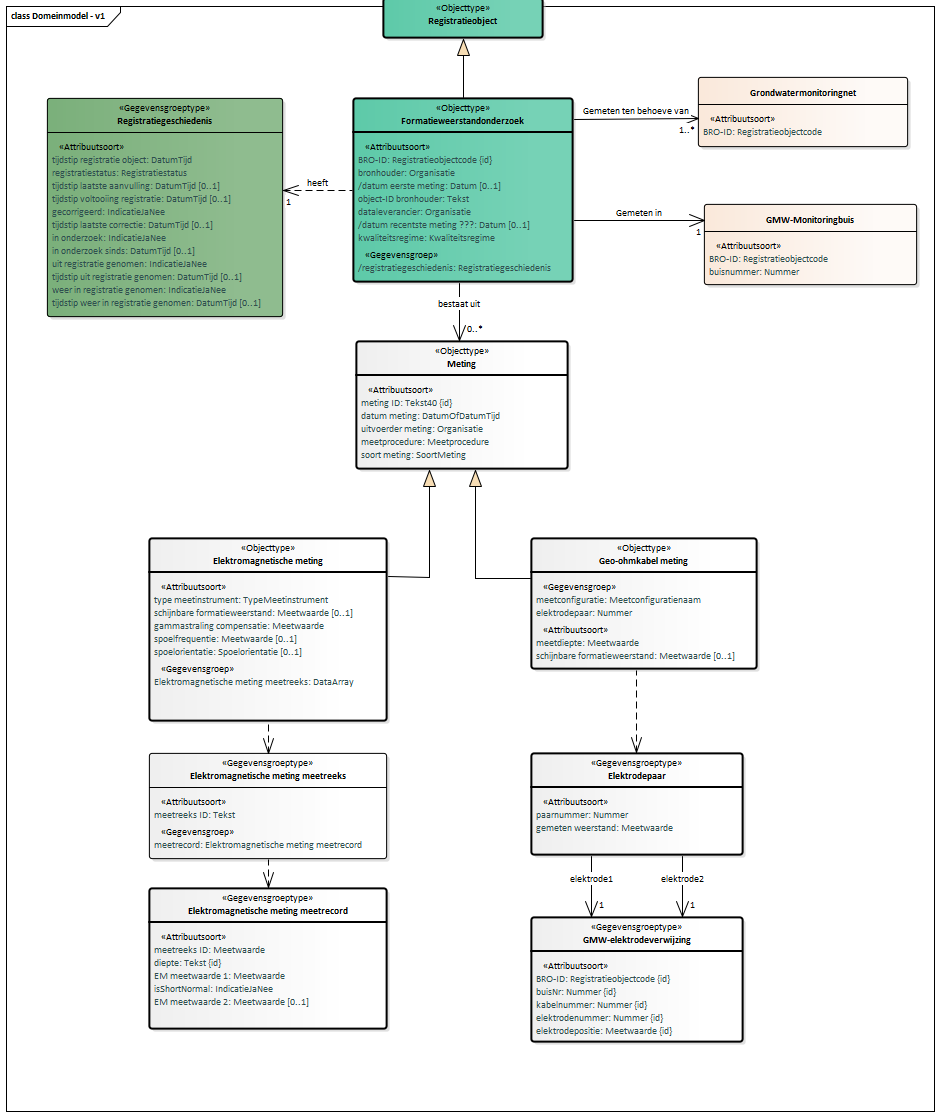
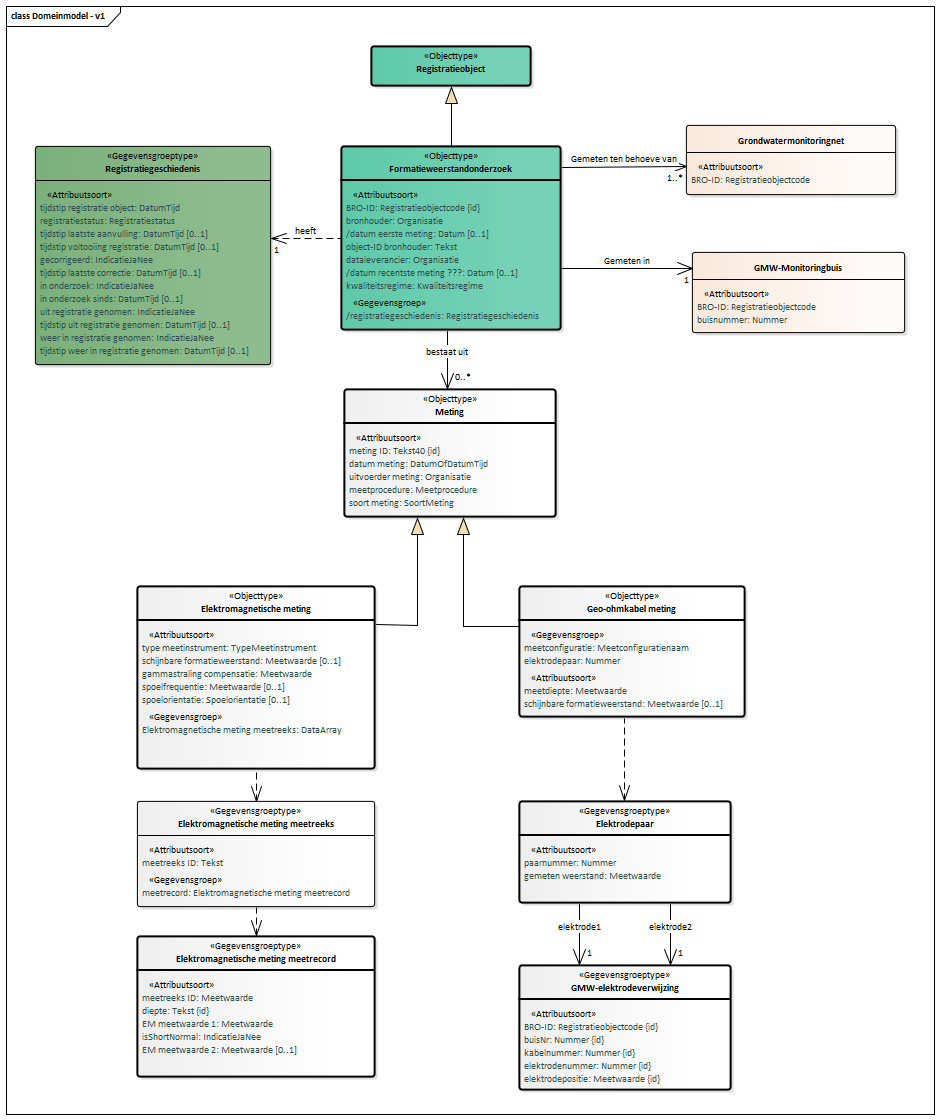
Conceptualmodel-FormatieweerstandonderzoekFRDconceptueel-0.1-1-20200401-20200813-161112

Changed region(s): [[0.0309, 0.0, 0.9872, 0.974]]

diff --git a/data/FRD-cat.msword.html b/data/FRD-cat.msword.html
@@ -15,7 +15,7 @@
    <body>
       <p>Conceptual model/Formatieweerstand onderzoek (FRD) conceptueel/20200401</p>
       <p>Imvertor: 1.61.2</p>
-      <p>Model release: Conceptualmodel-FormatieweerstandonderzoekFRDconceptueel-0.1-1-20200401-20200813-123558</p>
+      <p>Model release: Conceptualmodel-FormatieweerstandonderzoekFRDconceptueel-0.1-1-20200401-20200813-161112</p>
       <hr>
       <section>
          <h1>Artikel 1 Definitie van registratieobject, entiteiten en attributen</h1>
@@ -60,7 +60,7 @@
          <section>
             <h2>Het domeinmodel</h2>
             <section id="">
-               <div class="imageinfo overview"><img src="Images/EAID_0B3602DB_544E_4f6f_A6E2_DDE4A8A6790E.png" usemap="#imagemap-EAID_0B3602DB_544E_4f6f_A6E2_DDE4A8A6790E" alt="Diagram "><map name="imagemap-EAID_0B3602DB_544E_4f6f_A6E2_DDE4A8A6790E"><area shape="rect" alt="Meetconfiguratie" coords="527,801,745,913" href="#graph_EAID_04636D26_BFC4_4838_AC91_21BB2BF62212"><area shape="rect" alt="Elektromagnetische meting meetreeks" coords="137,801,375,907" href="#graph_EAID_33450642_9C84_4c07_AFE3_FB734FBA8DBB"><area shape="rect" alt="Elektromagnetische meting meetrecord" coords="137,936,375,1077" href="#graph_EAID_17DB4860_7353_467e_89CD_5018D22D8A43"><area shape="rect" alt="Elektromagnetische meting" coords="137,586,375,769" href="#graph_EAID_A1A80DF7_7D38_4063_8DE9_80EDAAF846B4"><area shape="rect" alt="Geo-ohmkabel meting" coords="519,586,745,717" href="#graph_EAID_16AE0361_B385_4410_A632_F5CDCEEC8FD1"><area shape="rect" alt="GMW-elektrodeverwijzing" coords="519,965,745,1090" href="#graph_EAID_EFFFB8A0_3810_43f9_83F1_FC48EFD1FE4E"><area shape="rect" alt="Meting" coords="344,389,556,517" href="#graph_EAID_D3B48B39_96CC_4f01_91F1_BDF0B725CD8A"><area shape="rect" alt="Registratiegeschiedenis" coords="35,146,271,365" href="#graph_EAID_0451B041_6862_420f_9E12_9829516BAF81"><area shape="rect" alt="Formatieweerstandonderzoek" coords="341,146,561,330" href="#graph_EAID_F03C2FC8_5705_46dc_927D_01B7EC61C2F2"><area shape="rect" alt="Registratieobject" coords="371,46,531,86" href="#graph_EAID_5706F7F6_075B_46d6_A47D_7DCF1EEB21B7"></map><p><b>Domeinmodel</b></p>
+               <div class="imageinfo overview"><img src="Images/EAID_0B3602DB_544E_4f6f_A6E2_DDE4A8A6790E.png" usemap="#imagemap-EAID_0B3602DB_544E_4f6f_A6E2_DDE4A8A6790E" alt="Diagram "><map name="imagemap-EAID_0B3602DB_544E_4f6f_A6E2_DDE4A8A6790E"><area shape="rect" alt="Meetconfiguratie" coords="527,762,745,874" href="#graph_EAID_04636D26_BFC4_4838_AC91_21BB2BF62212"><area shape="rect" alt="Elektromagnetische meting meetreeks" coords="137,801,375,907" href="#graph_EAID_33450642_9C84_4c07_AFE3_FB734FBA8DBB"><area shape="rect" alt="Elektromagnetische meting meetrecord" coords="137,936,375,1077" href="#graph_EAID_17DB4860_7353_467e_89CD_5018D22D8A43"><area shape="rect" alt="Elektromagnetische meting" coords="137,586,375,769" href="#graph_EAID_A1A80DF7_7D38_4063_8DE9_80EDAAF846B4"><area shape="rect" alt="Geo-ohmkabel meting" coords="523,586,749,717" href="#graph_EAID_16AE0361_B385_4410_A632_F5CDCEEC8FD1"><area shape="rect" alt="GMW-elektrodeverwijzing" coords="519,965,745,1090" href="#graph_EAID_EFFFB8A0_3810_43f9_83F1_FC48EFD1FE4E"><area shape="rect" alt="Meting" coords="344,389,556,517" href="#graph_EAID_D3B48B39_96CC_4f01_91F1_BDF0B725CD8A"><area shape="rect" alt="Registratiegeschiedenis" coords="35,146,271,365" href="#graph_EAID_0451B041_6862_420f_9E12_9829516BAF81"><area shape="rect" alt="Formatieweerstandonderzoek" coords="341,146,561,330" href="#graph_EAID_F03C2FC8_5705_46dc_927D_01B7EC61C2F2"><area shape="rect" alt="Registratieobject" coords="371,46,531,86" href="#graph_EAID_5706F7F6_075B_46d6_A47D_7DCF1EEB21B7"></map><p><b>Domeinmodel</b></p>
                </div>
             </section>
          </section>
